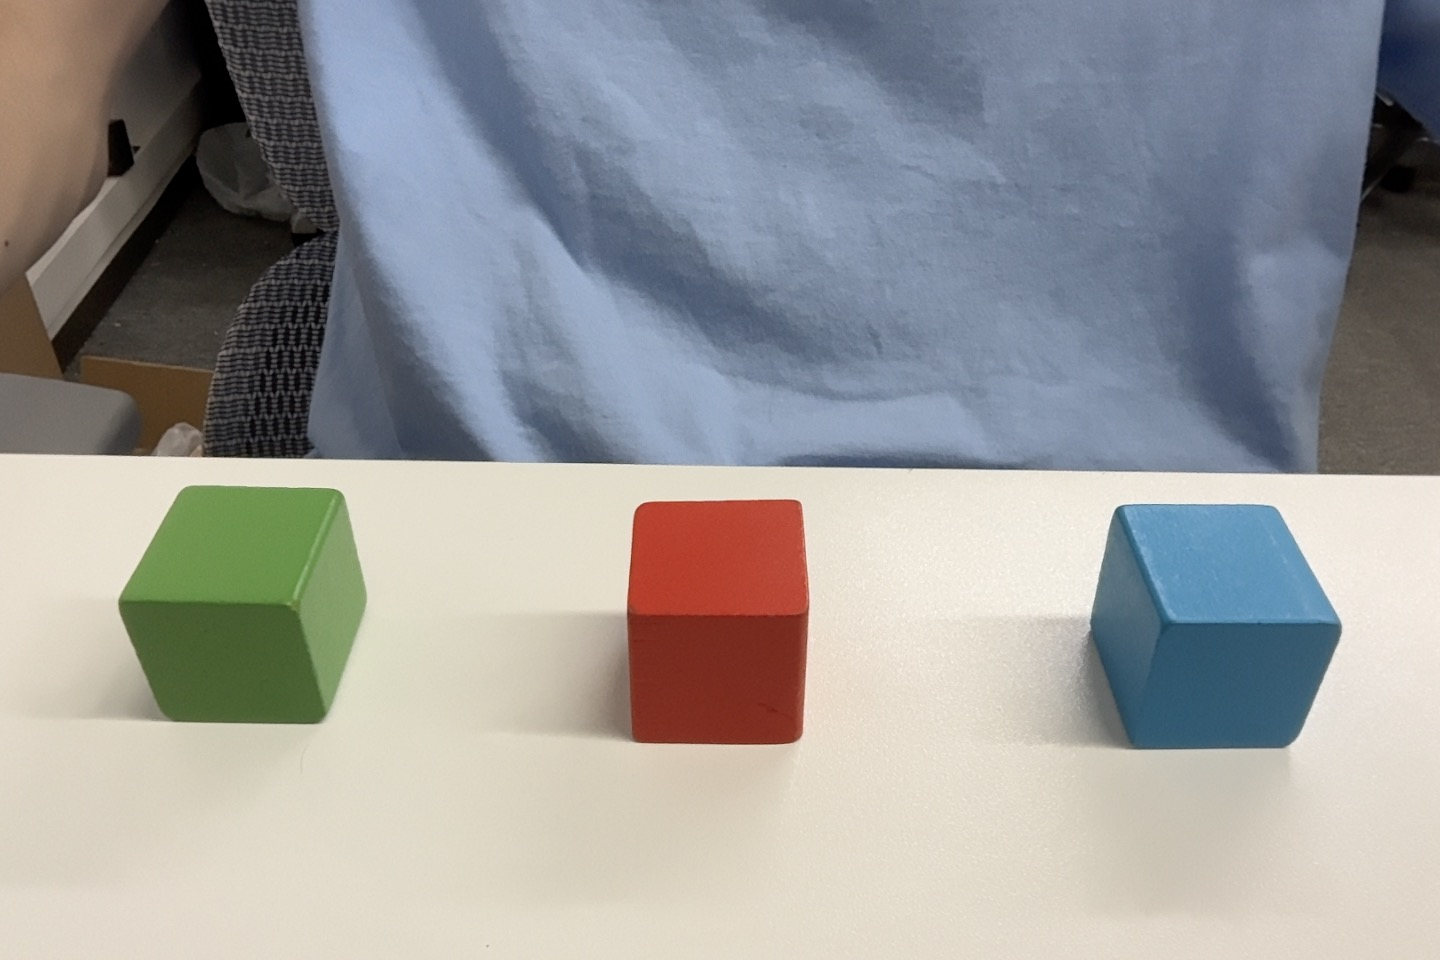
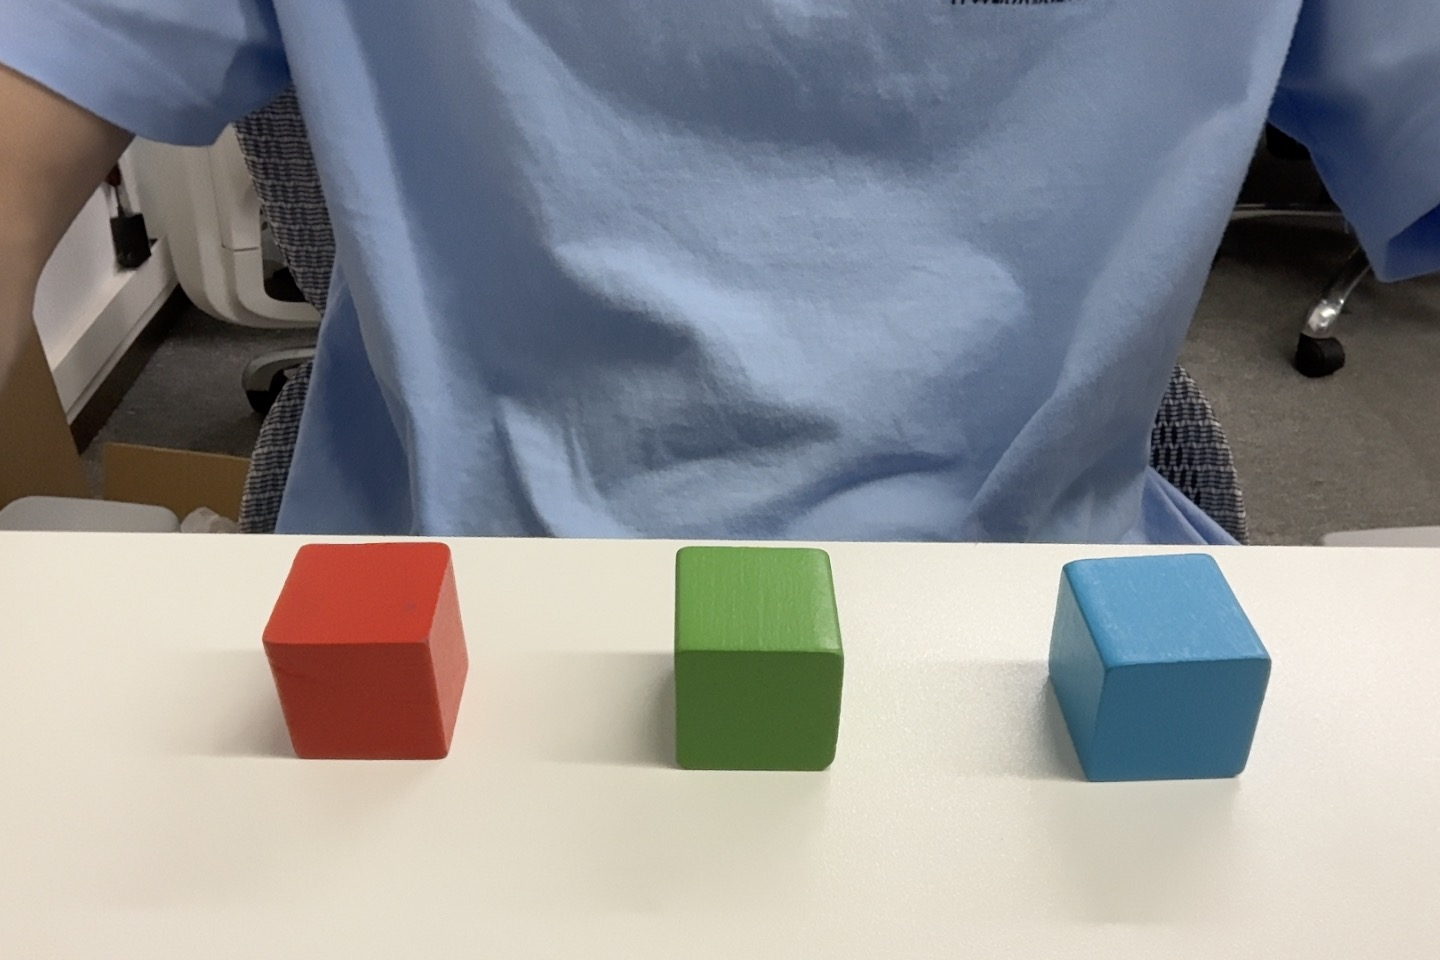
add take photos

diff --git a/take_photos.py b/take_photos.py
@@ -1,0 +1,209 @@
+import argparse
+from datetime import datetime
+from pathlib import Path
+from typing import List, Tuple
+
+import cv2
+import numpy as np
+
+
+WINDOW_NAME = "Take Photos"
+CAMERA_SELECT_WINDOW = "Select Camera"
+
+
+def parse_args() -> argparse.Namespace:
+	parser = argparse.ArgumentParser(
+		description="Preview camera frames and save photos into ./correct"
+	)
+	parser.add_argument(
+		"--camera-index",
+		type=int,
+		default=None,
+		help="Optional camera index. If omitted, the script scans and lets you choose.",
+	)
+	parser.add_argument(
+		"--scan-max-index",
+		type=int,
+		default=2,
+		help="Max camera index to probe when searching for available cameras.",
+	)
+	parser.add_argument(
+		"--output-dir",
+		type=str,
+		default="./correct",
+		help="Directory where captured images are saved.",
+	)
+	parser.add_argument(
+		"--prefix",
+		type=str,
+		default="photo",
+		help="Filename prefix for saved images.",
+	)
+	return parser.parse_args()
+
+
+def detect_cameras(max_index: int = 2) -> List[Tuple[int, int, int]]:
+	cameras: List[Tuple[int, int, int]] = []
+	for idx in range(max_index + 1):
+		cap = cv2.VideoCapture(idx)
+		if not cap.isOpened():
+			cap.release()
+			continue
+
+		ok, frame = cap.read()
+		cap.release()
+		if not ok or frame is None:
+			continue
+
+		height, width = frame.shape[:2]
+		cameras.append((idx, width, height))
+	return cameras
+
+
+def select_camera_interactively(cameras: List[Tuple[int, int, int]]) -> int:
+	if not cameras:
+		raise RuntimeError("No available camera detected. Check camera permission or device connection.")
+
+	if len(cameras) == 1:
+		return cameras[0][0]
+
+	board_height = 420
+	board_width = 880
+	board = np.zeros((board_height, board_width, 3), dtype=np.uint8)
+	board[:] = (24, 24, 24)
+
+	cv2.namedWindow(CAMERA_SELECT_WINDOW, cv2.WINDOW_NORMAL)
+	cv2.resizeWindow(CAMERA_SELECT_WINDOW, board_width, board_height)
+
+	while True:
+		canvas = board.copy()
+		cv2.putText(
+			canvas,
+			"Select camera by key (available indexes)",
+			(24, 48),
+			cv2.FONT_HERSHEY_SIMPLEX,
+			0.9,
+			(235, 235, 235),
+			2,
+			cv2.LINE_AA,
+		)
+		cv2.putText(
+			canvas,
+			"Press Q to quit",
+			(24, 84),
+			cv2.FONT_HERSHEY_SIMPLEX,
+			0.58,
+			(170, 170, 170),
+			1,
+			cv2.LINE_AA,
+		)
+
+		y = 132
+		for idx, width, height in cameras:
+			cv2.putText(
+				canvas,
+				f"[{idx}] Camera {idx} - {width}x{height}",
+				(36, y),
+				cv2.FONT_HERSHEY_SIMPLEX,
+				0.72,
+				(122, 220, 255),
+				2,
+				cv2.LINE_AA,
+			)
+			y += 42
+
+		cv2.imshow(CAMERA_SELECT_WINDOW, canvas)
+		key = cv2.waitKeyEx(20)
+
+		if key in (ord("q"), ord("Q"), 27):
+			cv2.destroyWindow(CAMERA_SELECT_WINDOW)
+			raise KeyboardInterrupt("Camera selection cancelled by user")
+
+		if ord("0") <= key <= ord("9"):
+			selected = key - ord("0")
+			for idx, _width, _height in cameras:
+				if idx == selected:
+					cv2.destroyWindow(CAMERA_SELECT_WINDOW)
+					return idx
+
+
+def save_frame(frame: np.ndarray, output_dir: Path, prefix: str) -> Path:
+	output_dir.mkdir(parents=True, exist_ok=True)
+	timestamp = datetime.now().strftime("%Y%m%d_%H%M%S")
+	output_path = output_dir / f"{prefix}_{timestamp}.jpg"
+	if not cv2.imwrite(str(output_path), frame):
+		raise RuntimeError(f"Failed to save image to {output_path}")
+	return output_path
+
+
+def main() -> None:
+	args = parse_args()
+	output_dir = Path(args.output_dir)
+
+	if args.camera_index is None:
+		scan_max_index = max(0, int(args.scan_max_index))
+		available_cameras = detect_cameras(max_index=scan_max_index)
+		camera_index = select_camera_interactively(available_cameras)
+	else:
+		camera_index = args.camera_index
+
+	cap = cv2.VideoCapture(camera_index)
+	if not cap.isOpened():
+		raise RuntimeError(
+			f"Failed to open camera index {camera_index}. Check camera permission or choose another index."
+		)
+
+	ok, frame = cap.read()
+	if not ok or frame is None:
+		cap.release()
+		raise RuntimeError("Failed to read initial frame from camera")
+
+	cv2.namedWindow(WINDOW_NAME, cv2.WINDOW_NORMAL)
+
+	last_saved_path = None
+
+	try:
+		while True:
+			ok, frame = cap.read()
+			if not ok or frame is None:
+				break
+
+			preview = frame.copy()
+			cv2.putText(
+				preview,
+				"Press S or Space to save, Q to quit",
+				(12, 30),
+				cv2.FONT_HERSHEY_SIMPLEX,
+				0.75,
+				(255, 255, 255),
+				2,
+				cv2.LINE_AA,
+			)
+			if last_saved_path is not None:
+				cv2.putText(
+					preview,
+					f"Saved: {last_saved_path.name}",
+					(12, 60),
+					cv2.FONT_HERSHEY_SIMPLEX,
+					0.65,
+					(80, 255, 120),
+					2,
+					cv2.LINE_AA,
+				)
+
+			cv2.imshow(WINDOW_NAME, preview)
+			key = cv2.waitKeyEx(1)
+
+			if key in (ord("q"), ord("Q")):
+				break
+
+			if key in (ord("s"), ord("S"), 32, 13):
+				last_saved_path = save_frame(frame, output_dir, args.prefix)
+				print(f"Saved: {last_saved_path.resolve()}")
+	finally:
+		cap.release()
+		cv2.destroyAllWindows()
+
+
+if __name__ == "__main__":
+	main()

diff --git a/calibration_overlay.py b/calibration_overlay.py
@@ -41,7 +41,7 @@ def parse_args() -> argparse.Namespace:
         "--image-path",
         type=str,
         # default="./correct/correct.jpg",
-        default="./correct/people.jpg",
+        default="./correct/sky.jpg",
         help="Path to reference image",
     )
     parser.add_argument(

diff --git a/README.md b/README.md
@@ -38,6 +38,12 @@ Save calibration result to JSON when quit:
 python3 calibration_overlay.py --save-config --output-json calibration.json
 ```
 
+Capture photos into `./correct`:
+
+```bash
+python3 take_photos.py
+```
+
 ## 3. Controls
 
 - Mouse: drag the overlay image.
